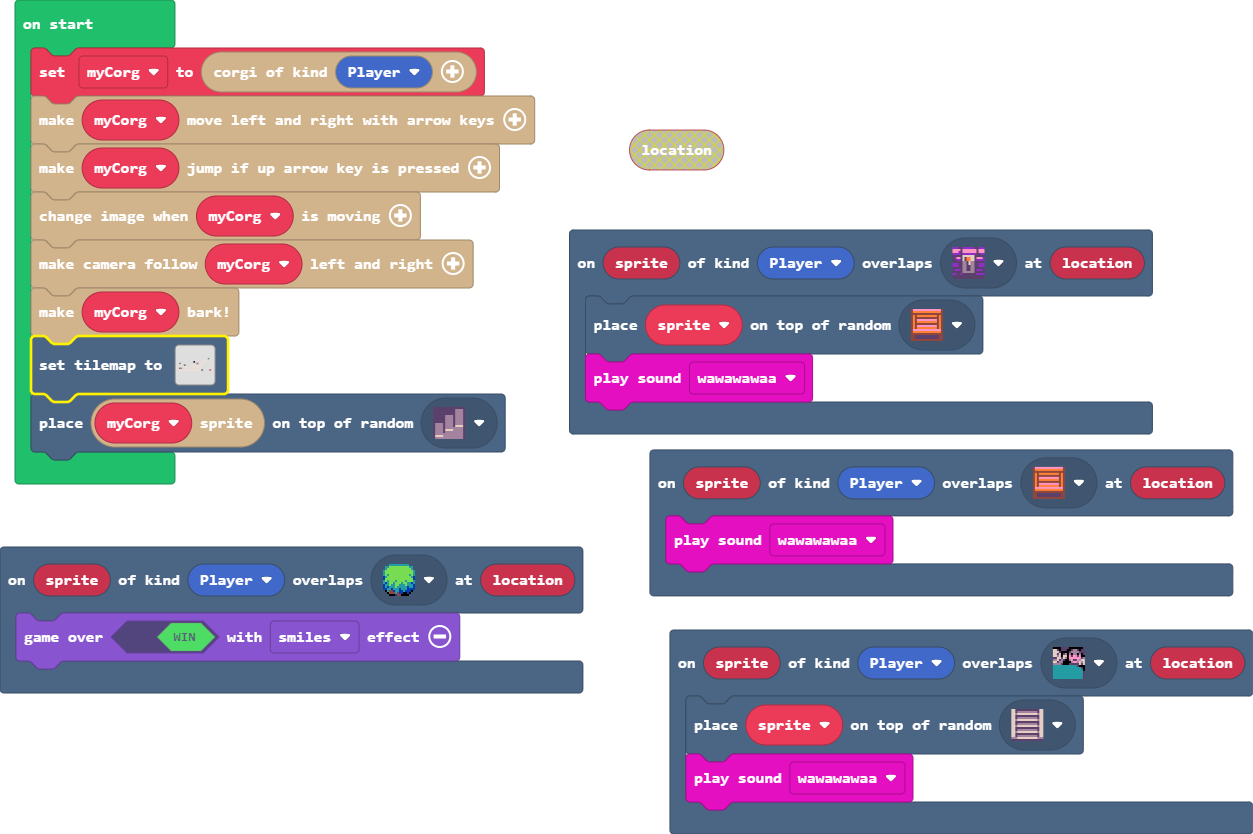
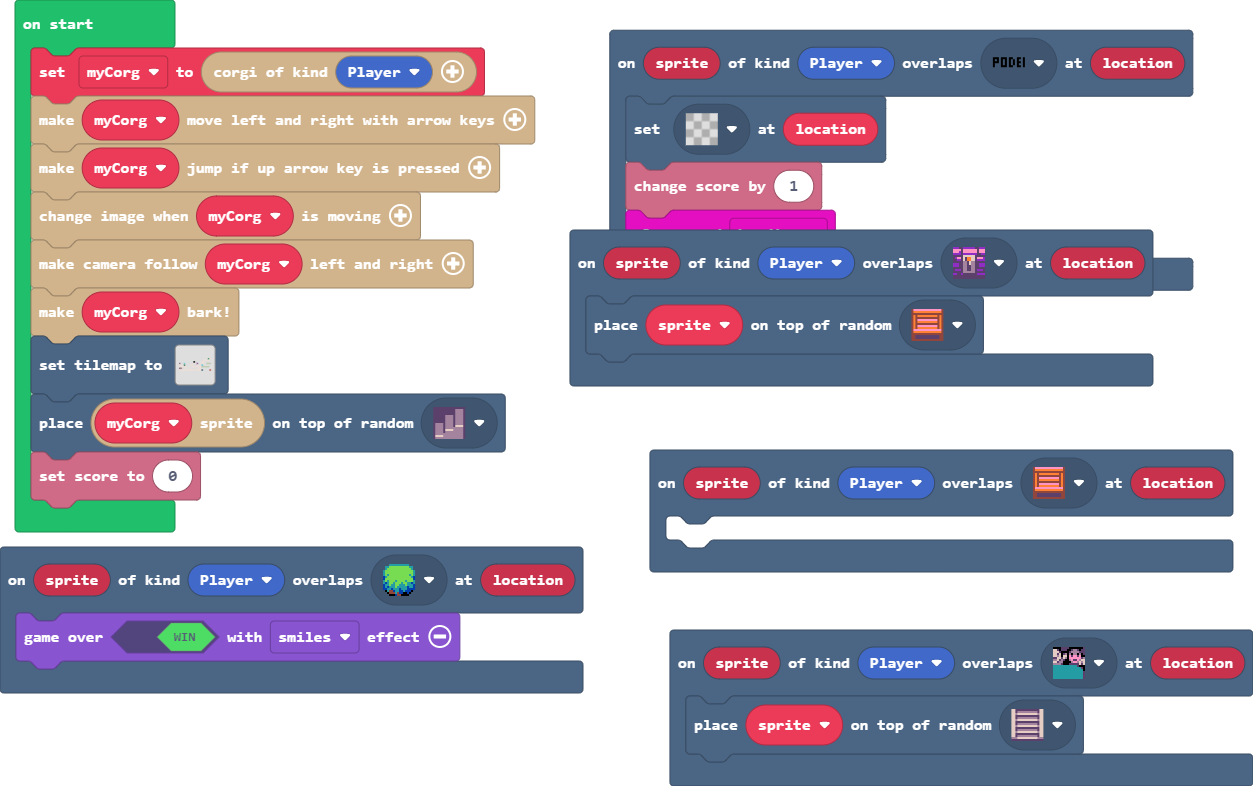
Update main.blocks, main.ts, tilemap.g.jres, tilemap.g.ts

diff --git a/main.ts b/main.ts
@@ -1,16 +1,19 @@
 scene.onOverlapTile(SpriteKind.Player, sprites.dungeon.stairLadder, function (sprite, location) {
-    music.wawawawaa.play()
+	
 })
 scene.onOverlapTile(SpriteKind.Player, sprites.builtin.forestTiles0, function (sprite, location) {
     game.over(true, effects.smiles)
 })
 scene.onOverlapTile(SpriteKind.Player, sprites.dungeon.purpleSwitchUp, function (sprite, location) {
     tiles.placeOnRandomTile(sprite, sprites.dungeon.stairLadder)
-    music.wawawawaa.play()
+})
+scene.onOverlapTile(SpriteKind.Player, myTiles.tile1, function (sprite, location) {
+    tiles.setTileAt(location, myTiles.transparency16)
+    info.changeScoreBy(1)
+    music.baDing.play()
 })
 scene.onOverlapTile(SpriteKind.Player, sprites.builtin.crowd1, function (sprite, location) {
     tiles.placeOnRandomTile(sprite, sprites.dungeon.stairNorth)
-    music.wawawawaa.play()
 })
 let myCorg = corgio.create(SpriteKind.Player)
 myCorg.horizontalMovement()
@@ -18,14 +21,15 @@ myCorg.verticalMovement()
 myCorg.updateSprite()
 myCorg.follow()
 myCorg.bark()
[2 lines of base64/hex data omitted]
     . . . . . . . . . . . . . . . . . . . 2 
     . . . . . . . . . . . . . . . 2 2 2 2 . 
     . . . . . . . . . . . . . . 2 2 . . . . 
-    . . . . . . . . . 2 . . . 2 2 2 . . . . 
+    . . . . . . . . . 2 . . . 2 2 2 . 2 2 2 
     2 2 . 2 . . . 2 2 . . 2 . 2 . . . . . . 
-    2 2 2 2 2 . . . 2 2 2 2 2 2 . . . . . . 
+    2 2 2 2 2 . . . 2 2 2 2 2 2 2 2 2 2 2 . 
     . . . . . . 2 . . . . . 2 2 . . . . . . 
     2 2 2 2 2 2 2 2 2 2 2 2 2 2 . . . . . 2 
-    `, [myTiles.tile0,sprites.builtin.brick,sprites.builtin.forestTiles0,sprites.dungeon.stairLarge,sprites.castle.rock0,sprites.castle.shrub,sprites.dungeon.stairLadder,myTiles.transparency16,sprites.dungeon.purpleSwitchUp,sprites.dungeon.stairNorth,sprites.builtin.crowd1], TileScale.Sixteen))
+    `, [myTiles.tile0,sprites.builtin.brick,sprites.builtin.forestTiles0,sprites.dungeon.stairLarge,sprites.castle.rock0,sprites.castle.shrub,sprites.dungeon.stairLadder,myTiles.transparency16,sprites.dungeon.purpleSwitchUp,sprites.dungeon.stairNorth,sprites.builtin.crowd1,myTiles.tile1,sprites.castle.tilePath9], TileScale.Sixteen))
 tiles.placeOnRandomTile(myCorg.sprite, sprites.dungeon.stairLarge)
+info.setScore(0)

diff --git a/tilemap.g.ts b/tilemap.g.ts
@@ -4,6 +4,8 @@ namespace myTiles {
     export const transparency16 = image.ofBuffer(hex``);
     //% fixedInstance jres blockIdentity=images._tile
     export const tile0 = image.ofBuffer(hex``);
+    //% fixedInstance jres blockIdentity=images._tile
+    export const tile1 = image.ofBuffer(hex``);
 
 }
 // Auto-generated code. Do not edit.
